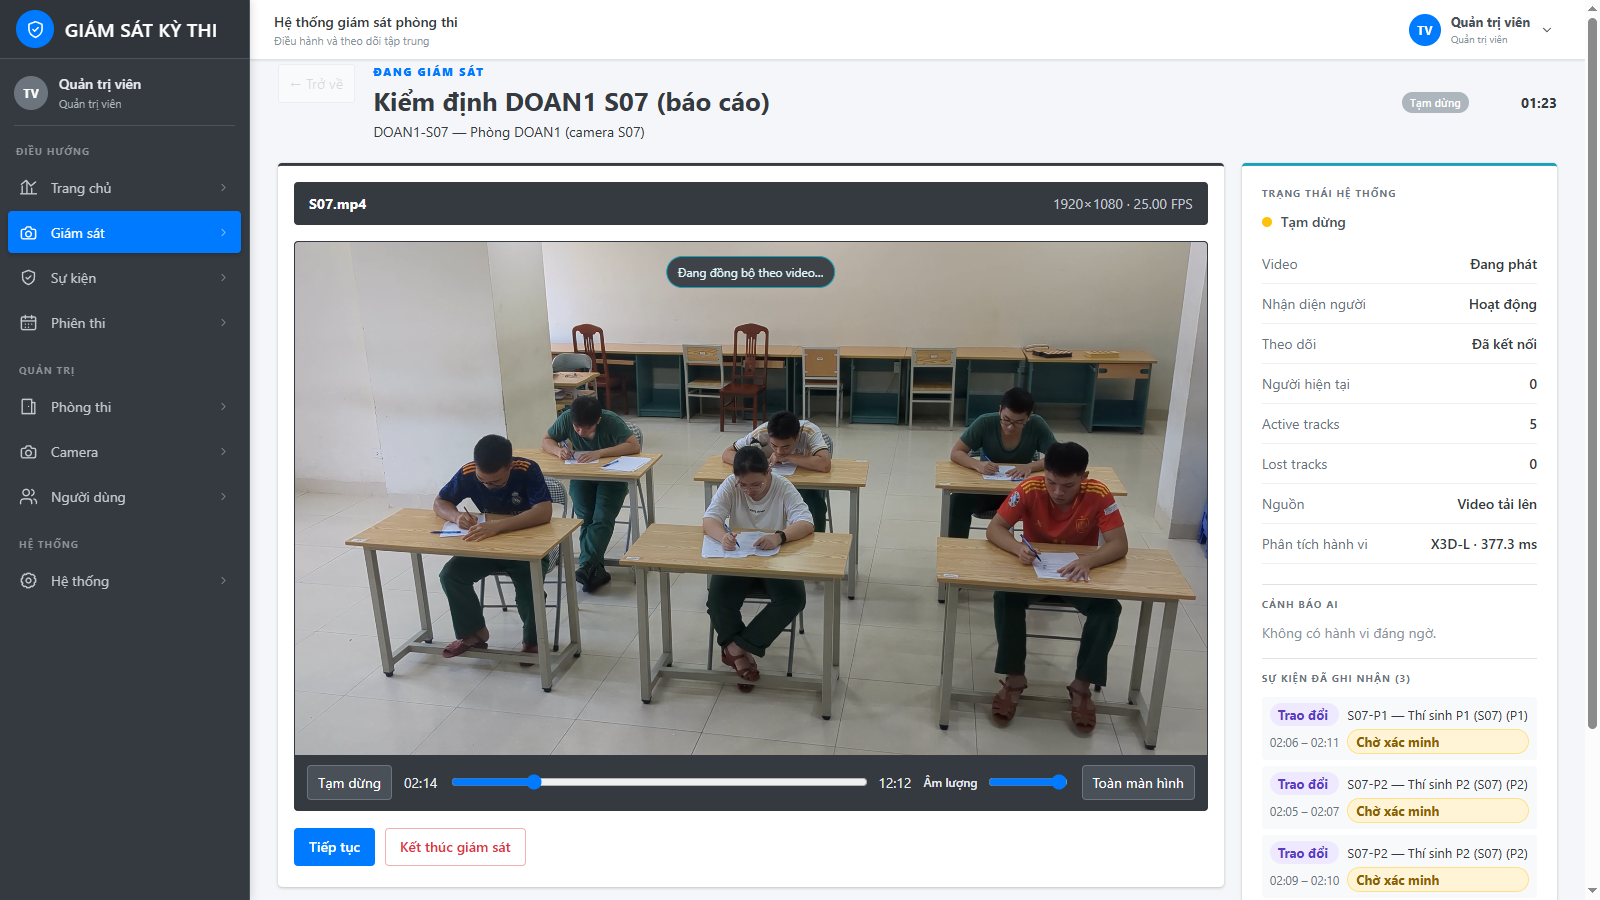
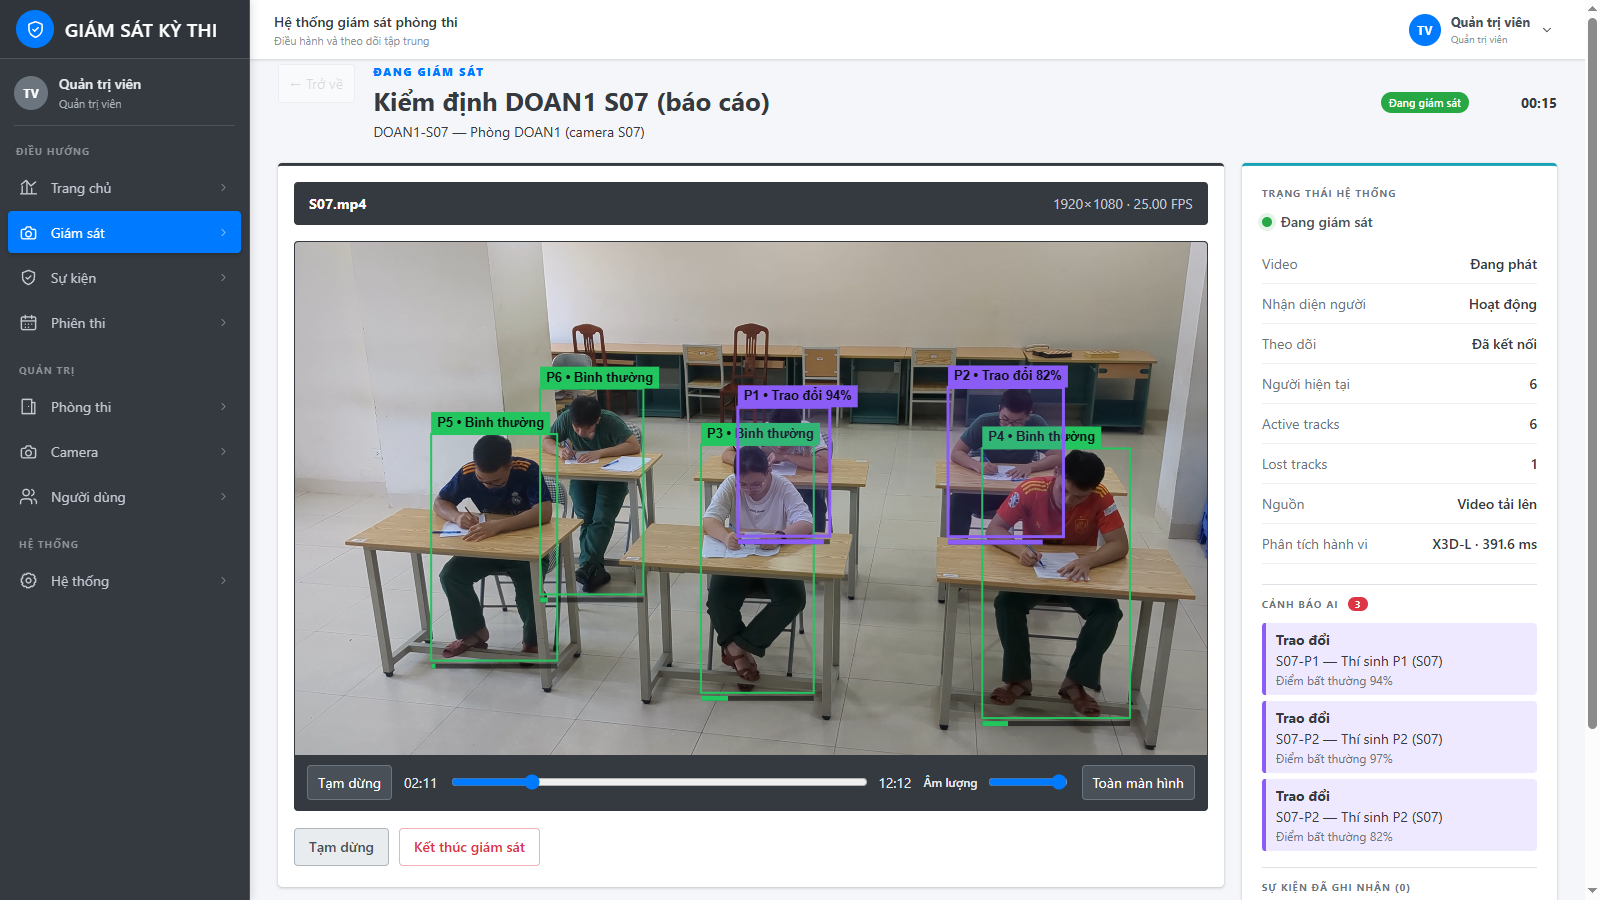
docs: thay ảnh demo cũ bằng ảnh từ hệ thống bản cuối (X3D-L v1, ngưỡng 0,85/0,70)

diff --git a/README.md b/README.md
@@ -4,18 +4,18 @@ ExamGuard theo dõi từng thí sinh qua camera phòng thi và cảnh báo theo 
 **nhìn bài bạn**, **trao đổi / chuyền đồ**, **dùng điện thoại hoặc tài liệu**. Hệ thống gắn cờ đoạn video để giám thị
 xem lại, không tự đưa ra kết luận thay con người.
 
-![Mô hình phát hiện thí sinh dùng điện thoại / tài liệu](docs/images/detect_phone.jpg)
-*Mô hình gắn cờ thí sinh #2 dùng điện thoại / tài liệu (0,93), các thí sinh còn lại bình thường.*
+![Giám sát phòng thi](docs/images/monitoring.png)
+*X3D-L gắn cờ P1 và P2 "Trao đổi" (94 %, 82 %) đúng lúc hai thí sinh thì thầm, bốn thí sinh còn lại bình thường.*
 
 ## Giao diện
-
-**Giám sát phòng thi**: video camera, trạng thái hệ thống và các sự kiện AI ghi nhận theo thời gian thực.
-
-![Giám sát phòng thi](docs/images/monitoring.png)
 
 **Danh sách sự kiện**: mỗi hành vi đáng ngờ kèm thí sinh, thời điểm trong video, độ tin cậy và trạng thái xác minh của giám thị.
 
 ![Danh sách sự kiện](docs/images/events.png)
+
+**Xác minh sự kiện**: giám thị xem lại đoạn video, rồi xác nhận vi phạm, bỏ qua (báo nhầm) hoặc đánh dấu cần xem lại. AI chỉ đánh dấu, quyết định thuộc về con người.
+
+<img src="docs/images/event_detail.png" alt="Xác minh sự kiện" width="360">
 
 **Live demo**: suy luận trên GPU đồng bộ với video, hiển thị khung và xác suất từng người, timeline cảnh báo so với nhãn thật, và so sánh các mô hình.
 
